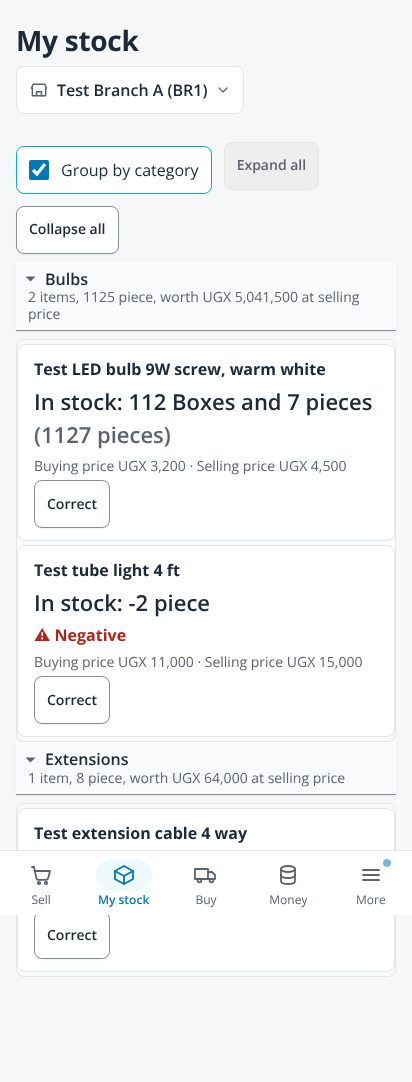
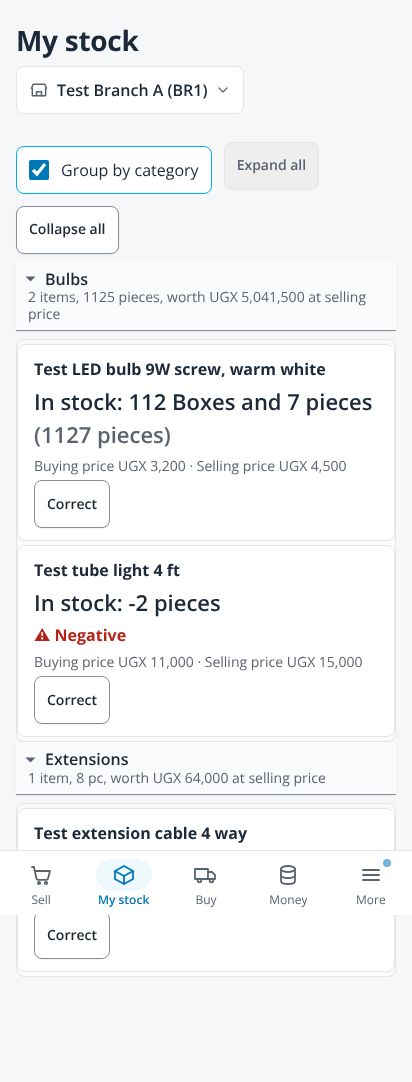
Say quantities as a person does, and guard more labels (#680)
A stock quantity reads in its unit with a correct plural ('1 piece',
'8 pieces'), and a unit name with no vowel is taken as its short code and
kept as typed ('8 pc'), so My stock reads 'In stock: 8 pc' and its group
'1 item, 8 pc, worth UGX 64,000 at selling price'. A corpus test fails an
article that says average cost or cost price. The design guard also fails a
bare Price or Cost in a form label or a card heading.

diff --git a/frontend/src/areas/staff/retail/units-state.test.ts b/frontend/src/areas/staff/retail/units-state.test.ts
@@ -3,7 +3,7 @@ import type { Pack, Product, SaleLine } from '../../../api/retail';
 import { buildPurchase, restockLineProblem, restockTotal, withUnit as restockWithUnit, type RestockLine } from './restock';
 import { buildSaleRequest, defaultPrice, draftTotal, lineHint, newLine, withUnit, type Draft } from './sale-state';
 import { factorProblem } from './catalogue-packs';
-import { baseCostMinor, baseQtyMilli, enteredPriceMinor, enteredQty, packPriceMinor, packsAndPieces, packsAndPiecesMilli, packsAndPiecesProblem, samePack, standardPack } from './units-state';
+import { baseCostMinor, baseQtyMilli, enteredPriceMinor, enteredQty, packPriceMinor, packsAndPieces, packsAndPiecesMilli, packsAndPiecesProblem, quantityIn, samePack, standardPack } from './units-state';
 
 // Units of measure (ADR-033, issue #194): the forms convert with the same rules as the server
 // (Quantities.java) so a line is judged before it is sent. Names and amounts are fabricated.
@@ -158,13 +158,20 @@ describe('stock in packs and pieces (issue #650)', () => {
     expect(packsAndPieces('-27.000', 'Piece', carton)).toBe('1 Carton and 3 Pieces short (27 Pieces short)');
     expect(packsAndPieces('-3.000', 'Piece', carton)).toBe('3 Pieces short');
   });
-  it('shows an item with no pack as it always did', () => {
-    expect(packsAndPieces('127.000', 'Piece', undefined)).toBe('127 Piece');
-    expect(packsAndPieces('5.000', 'Piece', { unit: 'Pair', factor: '1.000' })).toBe('5 Piece');
+  it('shows an item with no pack in its unit with a correct plural, a short code as typed (issue #680)', () => {
+    expect(packsAndPieces('127.000', 'Piece', undefined)).toBe('127 Pieces');
+    expect(packsAndPieces('1.000', 'Piece', undefined)).toBe('1 Piece');
+    expect(packsAndPieces('-1.000', 'Piece', undefined)).toBe('-1 Piece');
+    expect(packsAndPieces('8.000', 'pc', undefined)).toBe('8 pc');
+    expect(packsAndPieces('5.000', 'Piece', { unit: 'Pair', factor: '1.000' })).toBe('5 Pieces');
     expect(packsAndPieces('5.000', undefined, carton)).toBe('5');
+    expect(quantityIn('2.500', 'metre')).toBe('2.5 metres');
+    expect(quantityIn('3.000', 'box')).toBe('3 boxes');
+    expect(quantityIn('12.000', 'pcs')).toBe('12 pcs');
+    expect(quantityIn('2.000', 'ltr')).toBe('2 ltr');
   });
-  it('works with a pack of a decimal size', () => {
-    expect(packsAndPieces('26.000', 'Kg', { unit: 'Sack', factor: '12.500' })).toBe('2 Sacks and 1 Kg (26 Kgs)');
+  it('works with a pack of a decimal size, a short code kept as typed', () => {
+    expect(packsAndPieces('26.000', 'Kg', { unit: 'Sack', factor: '12.500' })).toBe('2 Sacks and 1 Kg (26 Kg)');
   });
   it('reads packs and pieces as one quantity in pieces', () => {
     expect(packsAndPiecesMilli('5', '7', carton)).toBe(127_000);

diff --git a/frontend/src/areas/staff/retail/units-state.ts b/frontend/src/areas/staff/retail/units-state.ts
@@ -134,26 +134,35 @@ export function samePack(a: PackSize | undefined, b: PackSize | undefined): bool
 }
 
 /** "1 Carton", "3 Cartons", "2.5 Kgs": a count with its unit, singular only for exactly one. */
+/**
+ * Issue #680: a quantity with its unit as a person says it, "1 piece" and "8 pieces". A unit has no short code of its own, so a
+ * name with no vowel is taken as one ("pc", "kg", "pcs", "ltr") and stays as typed: "8 pc".
+ */
+export function quantityIn(qty: string, unit: string): string {
+  const shown = showQty(qty);
+  return `${shown} ${!/[aeiou]/i.test(unit) || shown.replace(/^-/, '') === '1' ? unit : plural(unit)}`;
+}
+
 function counted(milli: bigint, unit: string): string {
-  return `${showQty(qtyString(Number(milli)))} ${milli === 1000n ? unit : plural(unit)}`;
+  return quantityIn(qtyString(Number(milli)), unit);
 }
 
 /**
  * Issue #650 (units spec section 3, "Stock is shown both ways"): a stock quantity in the item's standard pack and its base unit,
  * and the total in the base unit when that says more: "5 Cartons and 7 Pieces" with "127 Pieces". Less than one pack reads in the
  * base unit only ("7 Pieces"); below zero says how far short ("1 Carton and 3 Pieces short" with "27 Pieces short"). An item with no
- * pack reads as it always did ("127 Piece").
+ * pack reads in its unit with a correct plural ("127 Pieces", "1 Piece", "8 pc"; issue #680).
  */
 export function packsAndPiecesParts(qty: string, unit: string | undefined, pack: PackSize | undefined): { inPacks: string; total?: string } {
   const f = factorMilli(pack?.factor);
-  if (!unit || !pack?.unit || f === null || f <= 1000n) return { inPacks: `${showQty(qty)}${unit ? ` ${unit}` : ''}` };
+  if (!unit || !pack?.unit || f === null || f <= 1000n) return { inPacks: unit ? quantityIn(qty, unit) : showQty(qty) };
   const milli = BigInt(milliOf(qty));
   const size = milli < 0n ? -milli : milli;
   const packs = size / f;
   const rest = size - packs * f;
   const parts = [packs > 0n ? counted(packs * 1000n, pack.unit) : '', rest > 0n || packs === 0n ? counted(rest, unit) : ''].filter(Boolean).join(' and ');
   const inPacks = milli < 0n ? `${parts} short` : parts;
-  return packs > 0n ? { inPacks, total: `${showQty(qtyString(Number(size)))} ${plural(unit)}${milli < 0n ? ' short' : ''}` } : { inPacks };
+  return packs > 0n ? { inPacks, total: `${quantityIn(qtyString(Number(size)), unit)}${milli < 0n ? ' short' : ''}` } : { inPacks };
 }
 
 /** Issue #650: the same in one line, the one every screen says: "5 Cartons and 7 Pieces (127 Pieces)". */

diff --git a/frontend/src/app/ui/design-guard.test.ts b/frontend/src/app/ui/design-guard.test.ts
@@ -570,15 +570,15 @@ describe('design guard, an empty list is never a dead end (issue #619)', () => {
 });
 
 // Issue #680: a retail column or label says Selling price or Buying price, never a bare Price or Cost ("Average cost" is a retired
-// word of the glossary guard): a table header, a card row's span or a term, or a label prop (Stat, KeyFigureRow, Field).
-// JUSTIFICATION-A3: the issue asks for this design-guard test; it is one regex and its fixtures.
-const BARE_PRICE_LABEL = /<(th|span|dt)\b[^>]*>\s*(?:\{\s*['"`])?(?:Price|Cost)(?:['"`]\s*\})?\s*<\/\1>|\blabel=(?:\{\s*)?['"`](?:Price|Cost)['"`]/;
+// word of the glossary guard): a table header, a card row's span, a term, a form label, a card heading, or a label prop (Stat,
+// KeyFigureRow, Field). JUSTIFICATION-A3: the issue asks for this design-guard test; it is one regex and its fixtures.
+const BARE_PRICE_LABEL = /<(th|span|dt|label|h[2-4]|strong)\b[^>]*>\s*(?:\{\s*['"`])?(?:Price|Cost)(?:['"`]\s*\})?\s*<\/\1>|\blabel=(?:\{\s*)?['"`](?:Price|Cost)['"`]/;
 
 describe('design guard, no bare Price or Cost label on a retail screen (issue #680)', () => {
   it('finds a bare column, row label or label prop, and passes the plain words', () => {
-    const bare = ['<th className="num">Price</th>', "<th>{'Cost'}</th>", '<span>Cost</span>', '<dt>Price</dt>', '<Stat label="Price" />', "<KeyFigureRow label={'Cost'} />"];
+    const bare = ['<th className="num">Price</th>', "<th>{'Cost'}</th>", '<span>Cost</span>', '<dt>Price</dt>', '<label htmlFor="p">Price</label>', '<h3 className="cat-title">Cost</h3>', '<strong>Price</strong>', '<Stat label="Price" />', "<KeyFigureRow label={'Cost'} />"];
     expect(bare.filter((s) => !BARE_PRICE_LABEL.test(s))).toEqual([]);
-    const plain = ['<th className="num">Selling price</th>', '<th>Price list</th>', '<span>At buying price</span>', '<Stat label="Price lists" />'];
+    const plain = ['<th className="num">Selling price</th>', '<th>Price list</th>', '<span>At buying price</span>', '<h2>Price history</h2>', '<label htmlFor="p">Selling price</label>', '<Stat label="Price lists" />'];
     expect(plain.filter((s) => BARE_PRICE_LABEL.test(s))).toEqual([]);
   });
 

diff --git a/frontend/src/areas/staff/retail/stock-cards.dom.test.tsx b/frontend/src/areas/staff/retail/stock-cards.dom.test.tsx
@@ -8,7 +8,7 @@ import { mockMe } from '../../../api/retail-mock';
 import { StaffContext } from '../context';
 import { StockTable } from './stock';
 
-// Issue #680: My stock on a phone is a card per item: the name, "In stock: 8 piece" large, the buying and selling price in small
+// Issue #680: My stock on a phone is a card per item: the name, "In stock: 8 pieces" (or "8 pc" for a short unit) large, the buying and selling price in small
 // words under it, and Correct as a secondary button. A wide screen keeps the table with the new headers. Every name is invented.
 
 const rows: StockRow[] = [
@@ -40,12 +40,19 @@ describe('My stock on a phone (issue #680)', () => {
     expect(screen.queryByRole('table')).toBeNull();
     const card = screen.getByRole('listitem');
     expect(within(card).getByText('Test extension cable 4 way')).toBeTruthy();
-    expect(card.querySelector('.stock-card-qty')?.textContent).toBe('In stock: 8 piece');
+    expect(card.querySelector('.stock-card-qty')?.textContent).toBe('In stock: 8 pieces');
     expect(card.textContent).toContain('Buying price UGX 6,000 · Selling price UGX 8,000');
     const correct = within(card).getByRole('button', { name: 'Correct Test extension cable 4 way' });
     expect(correct.className).toBe('btn-sm');
     fireEvent.click(correct);
     expect(correct.getAttribute('aria-expanded')).toBe('true');
+  });
+
+  it('keeps a short unit code as typed, and one of a unit in the singular', () => {
+    screenAt(true);
+    show(<StockTable rows={[{ ...rows[0], unit: 'pc' }, { ...rows[0], product_id: 'p2', description: 'Test plug', qty: '1.000' }]} showCost={false} />);
+    expect([...document.querySelectorAll('.stock-card-qty')].map((q) => q.textContent)).toEqual(['In stock: 8 pc', 'In stock: 1 piece']);
+    expect(screen.getByText('2 items, worth UGX 72,000 at selling price')).toBeTruthy();
   });
 
   it('shows only the selling price to a seller who may not see buying prices', () => {

diff --git a/frontend/src/areas/staff/retail/category-groups.test.tsx b/frontend/src/areas/staff/retail/category-groups.test.tsx
@@ -48,7 +48,7 @@ describe('groupByCategory', () => {
   it('writes a subtotal per group when asked, and none otherwise', () => {
     expect(groups.every((g) => g.subtotal === null)).toBe(true);
     const withTotals = groupByCategory(items, (i) => i.category, (rows) => sameUnitQty(rows));
-    expect(withTotals.map((g) => g.subtotal)).toEqual(['1.5 piece', '9 roll', '7 piece', null]);
+    expect(withTotals.map((g) => g.subtotal)).toEqual(['1.5 pieces', '9 rolls', '7 pieces', null]);
   });
 
   it('is empty for no items and never changes its input', () => {
@@ -121,7 +121,7 @@ describe('the stock list in groups', () => {
     expect(out).toContain('Collapse all');
     expect(out.indexOf('Bulbs')).toBeLessThan(out.indexOf('Pipes'));
     expect(out.indexOf('Pipes')).toBeLessThan(out.indexOf(UNCATEGORISED));
-    expect(out).toContain('2 items, 5 piece, worth UGX 5,000 at selling price');
+    expect(out).toContain('2 items, 5 pieces, worth UGX 5,000 at selling price');
     expect(out).toContain('Test item 1');
     expect(out).not.toContain('<th>Category</th>');
   });
@@ -172,7 +172,7 @@ describe('the all-branches stock in groups', () => {
   it('groups the table and the phone cards by category', () => {
     for (const out of [page(<AllBranchesTable data={data} showCost={false} />), page(<AllBranchesList data={data} showCost={false} />)]) {
       expect(out.indexOf('Bulbs')).toBeLessThan(out.indexOf('Pipes'));
-      expect(out).toContain('1 item, 4 piece, worth UGX 4,000 at selling price');
+      expect(out).toContain('1 item, 4 pieces, worth UGX 4,000 at selling price');
       expect(out).toContain('Test item 2');
     }
   });

diff --git a/frontend/layout/my-stock.layout.test.ts b/frontend/layout/my-stock.layout.test.ts
@@ -45,7 +45,7 @@ describe.each([1, 2])('My stock at 412px, font scale %i', (font) => {
     expect(await page.evaluate(() => document.documentElement.scrollWidth), 'page width').toBeLessThanOrEqual(WIDTH);
     expect(await page.locator('table').count()).toBe(0);
     expect(await page.getByText('Extensions').first().isVisible()).toBe(true);
-    expect(await page.getByText('1 item, 8 piece, worth UGX 64,000 at selling price').isVisible()).toBe(true);
+    expect(await page.getByText('1 item, 8 pc, worth UGX 64,000 at selling price').isVisible()).toBe(true);
     const cards = await page.evaluate(() =>
       [...document.querySelectorAll<HTMLElement>('.stock-card')].map((card) => {
         const box = card.getBoundingClientRect();
@@ -69,7 +69,7 @@ describe.each([1, 2])('My stock at 412px, font scale %i', (font) => {
       }),
     );
     expect(cards).toHaveLength(3);
-    expect(cards.some((c) => c.text.includes('In stock: 8 piece') && c.text.includes('Buying price UGX 6,000 · Selling price UGX 8,000'))).toBe(true);
+    expect(cards.some((c) => c.text.includes('In stock: 8 pc') && c.text.includes('Buying price UGX 6,000 · Selling price UGX 8,000'))).toBe(true);
     for (const c of cards) {
       expect(c.left, c.text).toBeGreaterThanOrEqual(0);
       expect(c.right, c.text).toBeLessThanOrEqual(WIDTH);

diff --git a/frontend/layout/my-stock.tsx b/frontend/layout/my-stock.tsx
@@ -25,7 +25,7 @@ if (query.get('theme') === 'dark') document.documentElement.dataset.theme = 'dar
 
 const me = { ...mockMe('admin'), tours: { 'tours-off': { status: 'dismissed', version: 1 } } } as unknown as Me;
 const rows: StockRow[] = [
-  { product_id: 'p1', code: 'EX-1', description: 'Test extension cable 4 way', category: 'Extensions', unit: 'piece', qty: '8.000', negative: false, sell_minor: 8000, cost_minor: 6000 },
+  { product_id: 'p1', code: 'EX-1', description: 'Test extension cable 4 way', category: 'Extensions', unit: 'pc', qty: '8.000', negative: false, sell_minor: 8000, cost_minor: 6000 },
   { product_id: 'p2', code: 'BL-1', description: 'Test LED bulb 9W screw, warm white', category: 'Bulbs', unit: 'piece', qty: '1127.000', negative: false, sell_minor: 4500, cost_minor: 3200, standard_pack: { unit: 'Box', factor: '10.000' } },
   { product_id: 'p3', code: 'BL-2', description: 'Test tube light 4 ft', category: 'Bulbs', unit: 'piece', qty: '-2.000', negative: true, sell_minor: 15000, cost_minor: 11000 },
 ];

diff --git a/frontend/src/areas/staff/retail/category-groups.tsx b/frontend/src/areas/staff/retail/category-groups.tsx
@@ -1,5 +1,6 @@
 import { Fragment, useId, useRef, useState, type ReactNode } from 'react';
-import { milliOf, qtyString, showQty } from './maths';
+import { milliOf, qtyString } from './maths';
+import { quantityIn } from './units-state';
 import { Hint } from '../../../app/ui/Hint';
 
 // Item lists grouped by category as expandable sections (the stock list and the catalogue items; the item pickers
@@ -45,7 +46,7 @@ export function sameUnitQty(rows: { qty?: string; unit?: string }[]): string | n
   const unit = rows[0]?.unit;
   if (!unit || rows.some((r) => r.unit !== unit)) return null;
   const total = rows.reduce((sum, r) => sum + milliOf(r.qty ?? '0'), 0);
-  return `${showQty(qtyString(total))} ${unit}`;
+  return quantityIn(qtyString(total), unit);
 }
 
 const storeKey = (screen: string) => `bms.groupByCategory.${screen}`;

diff --git a/frontend/src/help/corpus.test.ts b/frontend/src/help/corpus.test.ts
@@ -112,6 +112,12 @@ describe('the help corpus', () => {
     }
   });
 
+  // Issue #680: Ask BMS answers only from these articles (ADR-096), so none may say the retired words for the two prices. Its
+  // `words:` search terms may hold them, since a person may still ask about the average cost; Ask BMS never sends them to a model.
+  it('never says average cost or cost price', () => {
+    for (const a of ARTICLES) expect(articleText(a), a.id).not.toMatch(/average cost|cost price/i);
+  });
+
   it('refuses an article without its front matter or with a job it does not know', () => {
     expect(() => parseArticle('x', 'Just text')).toThrow(/front matter/);
     expect(() => parseArticle('x', '---\ntitle: How do I fly?\njob: flying\n---\nText')).toThrow(/known job/);

diff --git a/docs/ui/design-system.md b/docs/ui/design-system.md
@@ -139,7 +139,7 @@ The platform host and a tenant without a colour show the Rincol blue.
 | Tour anchor | `data-tour="<id>"` on the element a tour step lights up | Stable ids, never a CSS class; `tour/tours.test.tsx` fails when one disappears |
 | Tour rules (issue #292) | `tour/model.ts` `autoTourFor`, `host.tsx` | At most one tour starts by itself per page load; the rest wait for the next visit. A user with no tour history gets only the first-run (Welcome) tour, and every "New:" tour is marked seen for them at that moment, since they have nothing to compare against. One "Do not show tours again" checkbox (progress key `tours-off`) stops every automatic tour, "New:" ones included; Help still replays any tour |
 | Top bar (#526) | `StaffBar` (`areas/staff/route.tsx`) with `BranchTitle`, `TopMenu` and `OfflineBanner` (`areas/staff/top-bar.tsx`); `.staff-bar`, `.top-title`, `.top-menu`, `.offline-banner` in `ui/navigation.css` | The staff area's one 56px bar, sticky: on a phone the business small above the branch in use as the title (a native select laid over it switches branch; from 720px both are at the top of the sidebar instead, #564), Search, Refresh beside it (issue #631: named Refresh, a 48px target, its icon alone below 720px, its words and when the page was loaded from 720px), the sync dot only with news, and one menu (a disclosure, Escape and a press outside close it) holding who is signed in, Help, the theme as a Segmented, and Sign out (from 720px, or while two-step set-up blocks the page). The shell draws no brand bar in the staff area, and its Powered-by footer only on More, Business set-up and Retail settings. Offline, a neutral banner under the bar says so |
-| My stock cards (#680) | `StockTable` (`areas/staff/retail/stock.tsx`) below 720px; `.stock-cards`, `.stock-card`, `.stock-card-qty` in `ui/retail.css` | One shop's stock on a phone is a `.rt-card` per item, no stripe: the name, "In stock: 8 piece" at `--text-xl` in tabular figures (the total in pieces wraps under it), the Negative flag, then "Buying price UGX 6,000 · Selling price UGX 8,000" small (the buying price only for a reader of costs), and Correct as a 48px secondary button. A group header reads "1 item, 8 piece, worth UGX 64,000 at selling price". From 720px the table stays, headed Average buying price and Selling price. `layout/my-stock.layout.test.ts` lays it out at 412px (default and double font, dark), pictures in `docs/ui/shop-owner-clarity-680` |
+| My stock cards (#680) | `StockTable` (`areas/staff/retail/stock.tsx`) below 720px; `.stock-cards`, `.stock-card`, `.stock-card-qty` in `ui/retail.css` | One shop's stock on a phone is a `.rt-card` per item, no stripe: the name, "In stock: 8 pc" at `--text-xl` in tabular figures (the total in pieces wraps under it), the Negative flag, then "Buying price UGX 6,000 · Selling price UGX 8,000" small (the buying price only for a reader of costs), and Correct as a 48px secondary button. A group header reads "1 item, 8 pc, worth UGX 64,000 at selling price". A quantity reads in its unit with a correct plural ("1 piece", "8 pieces"), and a unit name with no vowel is taken as a short code and kept as typed ("8 pc", "26 Kg"; `quantityIn` in `units-state.ts`), since a unit has no short code of its own. From 720px the table stays, headed Average buying price and Selling price. `layout/my-stock.layout.test.ts` lays it out at 412px (default and double font, dark), pictures in `docs/ui/shop-owner-clarity-680` |
 | Shop here (#680) | `ShopHere` (`areas/staff/retail/ui.tsx`), drawn by `Gate` under every retail page's title and on Retail home; `BranchOptions` and `useBranchSwitch` (`areas/staff/branch-picker.tsx`); `.shop-here`, `.shop-here-name`, `.shop-here-select` in `ui/retail.css` | The shop the page works in, in plain words ("Test Shop One (HQ)", or All branches), with the shop icon: a hairline-edged 48px row, no stripe. With more than one branch to choose, a native select laid over it (named "Shop: <name>. Switch shop") opens the phone's own picker in one tap. Every change of branch, from here, the top bar or the menu, shows the dark neutral info toast "You are now in <shop>." (All branches: "You now see all branches.") for 4 seconds, announced politely; nothing when a screen holds the branch. Record pages (one invoice, credit note, order, customer account, a return) show their own branch in the body instead. Tests `shop-here.dom.test.tsx` |
 | Ask button (#603) | `AskButton` (`areas/staff/help/how-do-i.tsx`) in `StaffBar` after Search; `.ask-open`, `.ask-open-word` in `ui/navigation.css`; the `ask` icon | On every staff screen but `/staff/help` itself and the minimal header of blocking two-step set-up: the ask icon and the word Ask (named Ask BMS) while the business has Ask BMS on, else How do I? (never Help, the top menu's tours sheet), ", New" in its name while the dot shows, a 48px target, the word hidden below 430px so the branch name stays readable (#605); `layout/header.layout.test.ts` lays the bar out at 360, 390 and 412px. It opens `/staff/help#ask`, where the cursor lands in the question box (the article search while Ask BMS is off or the phone is offline), and carries the help page's New dot until the person first opens `/staff/help` |
 | Help | `useHelpSheet` and `HelpMenu` (`tour/host.tsx`) | A `dialog.sheet` with Take the tour and Show me this page; the staff area opens it from the top bar's menu |
